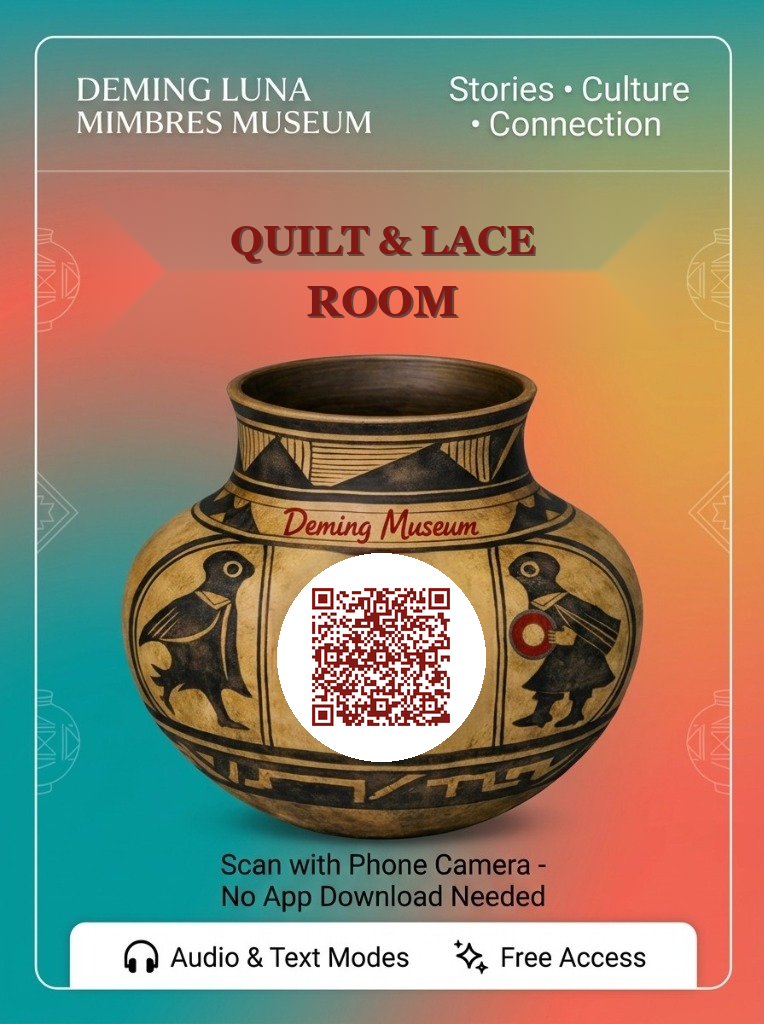
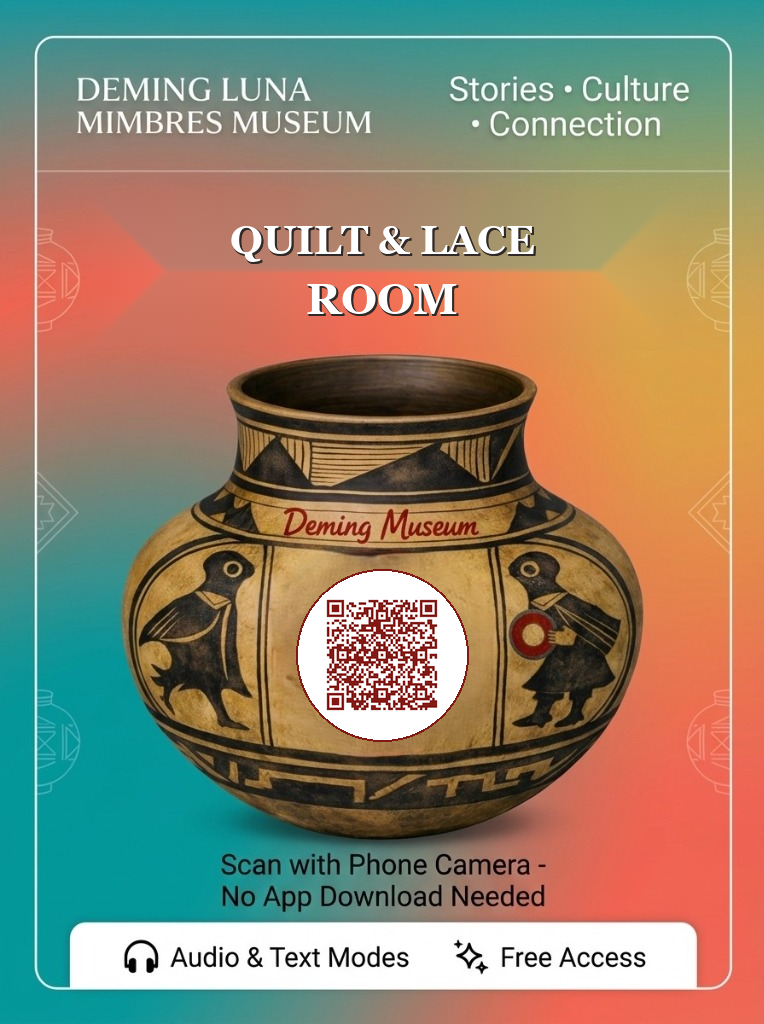
Update Quilt & Lace Room placard with white lettering matching Transportation Annex style

Changed region(s): [[0.3613, 0.5312, 0.6623, 0.75], [0.301, 0.2188, 0.7225, 0.25], [0.3914, 0.2812, 0.6021, 0.3125]]

diff --git a/scripts/render_quilt_room_poster.py b/scripts/render_quilt_room_poster.py
@@ -1,20 +1,16 @@
-#!/usr/bin/env python3
 import os
+import shutil
 import cv2
 import numpy as np
 from PIL import Image, ImageDraw, ImageFont
 import qrcode
-import shutil
 
-BASE_URL = "https://amandahervol-alt.github.io/deming-museum-tour"
+# 1. Configuration
 ROOM_ID = 10
-TARGET_URL = f"{BASE_URL}/?room={ROOM_ID}"
+TARGET_URL = f"https://amandahervol-alt.github.io/deming-museum-tour/?room={ROOM_ID}"
 
-# 1. Base template
-template_path = r"C:\Users\manet\.gemini\antigravity-ide\brain\6f34c999-2401-441a-aae3-0a0320e6d5be\.user_uploaded\media_1789575966257.jpg"
-if not os.path.exists(template_path):
-    template_path = "qr_codes/western_area_poster_placard.jpg"
-
+# 2. Template
+template_path = r"C:\Users\manet\.gemini\antigravity-ide\brain\6f34c999-2401-441a-aae3-0a0320e6d5be\.user_uploaded\media_1789917482175.jpg"
 cv_img = cv2.imread(template_path)
 H, W, _ = cv_img.shape
 
@@ -26,7 +22,7 @@ inpainted = cv2.inpaint(cv_img, mask, inpaintRadius=7, flags=cv2.INPAINT_TELEA)
 result = Image.fromarray(cv2.cvtColor(inpainted, cv2.COLOR_BGR2RGBA))
 draw = ImageDraw.Draw(result)
 
-# 2. Draw 'QUILT & LACE ROOM' (or 'QUILT/LACE ROOM')
+# 3. White Lettering with dark drop shadow (Matching Transportation Annex & Medical Room)
 font_title1 = ImageFont.truetype(r"C:\Windows\Fonts\georgiab.ttf", 40)
 font_title2 = ImageFont.truetype(r"C:\Windows\Fonts\georgiab.ttf", 44)
 
@@ -42,53 +38,52 @@ def get_text_center(text, font, y_center):
     return x, y
 
 x1, y1 = get_text_center(title_line1, font_title1, 235)
-x2, y2 = get_text_center(title_line2, font_title2, 290)
+x2, y2 = get_text_center(title_line2, font_title2, 288)
+
+shadow_color = (25, 18, 15, 230)
+white_color = (255, 255, 255, 255)
 
 # Drop shadow
-shadow_color = (74, 16, 5, 200)
-main_color = (130, 25, 21, 255)
+for ox, oy in [(2, 2), (1, 2), (2, 1), (1, 1)]:
+    draw.text((x1 + ox, y1 + oy), title_line1, font=font_title1, fill=shadow_color)
+    draw.text((x2 + ox, y2 + oy), title_line2, font=font_title2, fill=shadow_color)
 
-for offset_x, offset_y in [(2, 2), (1, 1)]:
-    draw.text((x1 + offset_x, y1 + offset_y), title_line1, font=font_title1, fill=shadow_color)
-    draw.text((x2 + offset_x, y2 + offset_y), title_line2, font=font_title2, fill=shadow_color)
+# Pure white text
+draw.text((x1, y1), title_line1, font=font_title1, fill=white_color)
+draw.text((x2, y2), title_line2, font=font_title2, fill=white_color)
 
-draw.text((x1, y1), title_line1, font=font_title1, fill=main_color)
-draw.text((x2, y2), title_line2, font=font_title2, fill=main_color)
+# 4. Generate Room 10 QR code in center between birds
+cx = 382
+cy = 655
+r = 86
+qr_size = 120
 
-# 3. Generate QR code for Room 10
 qr = qrcode.QRCode(
     version=1,
     error_correction=qrcode.constants.ERROR_CORRECT_H,
-    box_size=10,
-    border=1,
+    box_size=12,
+    border=2,
 )
 qr.add_data(TARGET_URL)
 qr.make(fit=True)
-qr_img = qr.make_image(fill_color="#821915", back_color="#FFFFFF").convert("RGBA")
 
-# Center circle in the pot
-cx, cy = 381, 657
-r = 104
+img_qr = qr.make_image(fill_color="#821915", back_color="#FFFFFF").convert("RGBA")
+qr_res = img_qr.resize((qr_size, qr_size), Image.Resampling.LANCZOS)
 
-# Draw clean white circle
-draw.ellipse((cx - r, cy - r, cx + r, cy + r), fill=(255, 255, 255, 255))
+# White round medallion with fine terracotta rim
+TERRACOTTA = (130, 25, 21, 255)
+draw.ellipse((cx - r, cy - r, cx + r, cy + r), fill=TERRACOTTA)
+draw.ellipse((cx - (r-2), cy - (r-2), cx + (r-2), cy + (r-2)), fill=(255, 255, 255, 255))
+result.paste(qr_res, (cx - qr_size//2, cy - qr_size//2), qr_res)
 
-# Resize QR and paste in center of the circle
-qr_size = 144
-qr_resized = qr_img.resize((qr_size, qr_size), Image.Resampling.LANCZOS)
-qx = cx - (qr_size // 2)
-qy = cy - (qr_size // 2)
-
-result.paste(qr_resized, (qx, qy), qr_resized)
-
-# Save output
-rgb_result = result.convert("RGB")
+# 5. Save poster files
 out_jpg = "qr_codes/quilt_and_lace_room_poster_placard.jpg"
 out_png = "qr_codes/quilt_and_lace_room_poster_placard.png"
+rgb_result = result.convert("RGB")
 rgb_result.save(out_jpg, quality=98)
 result.save(out_png)
 
-# Also save quilt_lace_room_poster_placard.jpg
+# Also save alias
 rgb_result.save("qr_codes/quilt_lace_room_poster_placard.jpg", quality=98)
 
 # Save artifact
@@ -96,4 +91,13 @@ artifact_dir = r"C:\Users\manet\.gemini\antigravity-ide\brain\6f34c999-2401-441a
 artifact_jpg = os.path.join(artifact_dir, "quilt_and_lace_room_poster_placard.jpg")
 rgb_result.save(artifact_jpg, quality=98)
 
-print(f"Successfully generated {out_jpg} and {artifact_jpg}")
+# Backup repo
+backup_dir = r"C:\Users\manet\.gemini\antigravity\scratch\deming-museum-ai-tour\qr_codes"
+if os.path.exists(backup_dir):
+    rgb_result.save(os.path.join(backup_dir, "quilt_and_lace_room_poster_placard.jpg"), quality=98)
+
+# Verify OpenCV scannability
+detector = cv2.QRCodeDetector()
+mat = cv2.imread(out_jpg)
+val, pts, _ = detector.detectAndDecode(mat)
+print(f"Quilt & Lace Room Poster: Scannable? -> {bool(val)} | Decoded: '{val}'")
